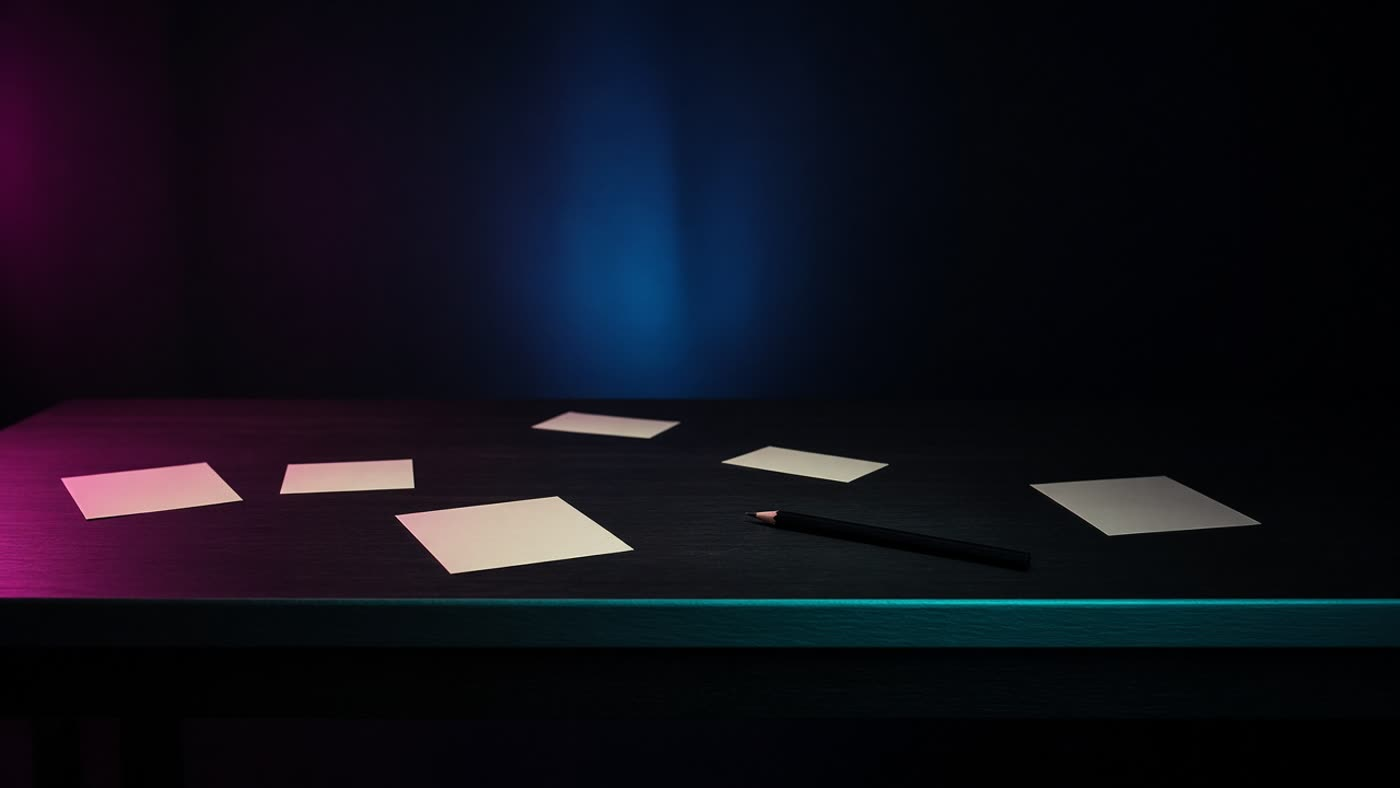
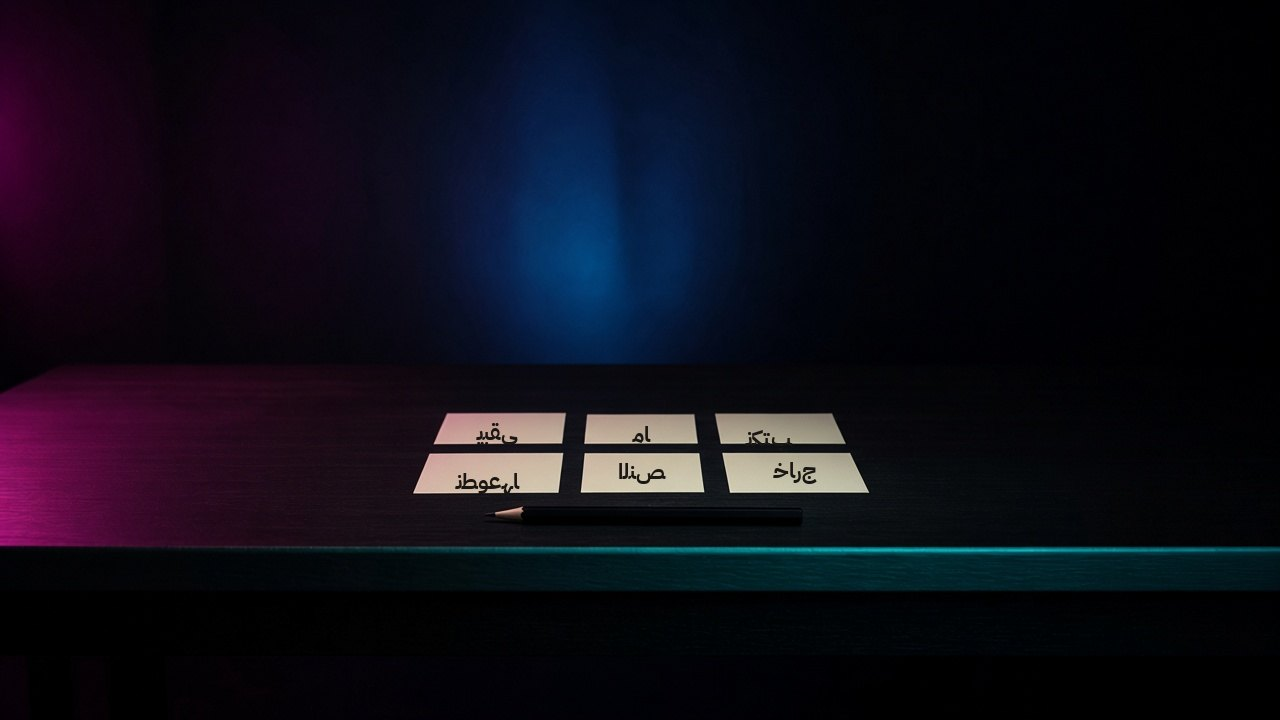
Carry one readable line through the desk sequence
The stills were swapping tools. The same words now move from slips
to a draft, into the frame, beside the microphone, through a
strike-through, and onto the card with the marked draft beside it.
Phone frames are separate 3:4 reframes so the paper is not side-cropped.

Changed region(s): [[0.0312, 0.5194, 0.6875, 0.7333], [0.7188, 0.5806, 0.9062, 0.7028]]

diff --git a/off-the-script/index.html b/off-the-script/index.html
@@ -181,40 +181,42 @@
   <div class="wrap cut-intro">
     <p class="story-kicker">03</p>
     <p class="meta">SEQUENCE</p>
-    <h2 class="ar-only">من الورق إلى ما يصلك.</h2>
-    <h2 class="en-only">From paper to what you receive.</h2>
-    <p class="lede ar-only">ثماني لقطات لطاولة واحدة. الشيء على الطاولة يتغيّر. النهاية بطاقة جاهزة وظرف مفتوح، لا شعار الاستوديو. تصور توضيحي، وليس تصوير عميل.</p>
-    <p class="lede en-only">Eight frames of one desk. The object on it changes. It ends on a finished card and an open envelope, not the studio mark. An illustration, not a client shoot.</p>
+    <h2 class="ar-only">جملة واحدة، من الورق إلى البطاقة.</h2>
+    <h2 class="en-only">One line, from paper to card.</h2>
+    <p class="lede ar-only">عينة توضيحية، ليست عمل عميل. الكلمات نفسها تنتقل: أوراق، ثم مسودة، ثم إطار، ثم صوت، ثم شطب، ثم البطاقة التي بقي عليها السطر.</p>
+    <p class="lede en-only">An illustrative sample, not a client job. The same words move: slips, then a draft, then a frame, then a mic, then a cut, then the card that keeps the line.</p>
   </div>
   <div class="seq-track wrap" id="seqTrack" data-p="0" data-seg="0" data-local="0" data-title="0">
     <div class="seq-sticky">
       <div class="seq-stage" id="seqStage">
-        <img class="seq-shot" data-i="0" alt="" width="1400" height="788" decoding="async" src="media/sequence/01.jpg">
-        <img class="seq-shot" data-i="1" alt="" width="1400" height="788" decoding="async" data-src="media/sequence/02.jpg">
-        <img class="seq-shot" data-i="2" alt="" width="1400" height="788" decoding="async" data-src="media/sequence/03.jpg">
-        <img class="seq-shot" data-i="3" alt="" width="1400" height="788" decoding="async" data-src="media/sequence/04.jpg">
-        <img class="seq-shot" data-i="4" alt="" width="1400" height="788" decoding="async" data-src="media/sequence/05.jpg">
-        <img class="seq-shot" data-i="5" alt="" width="1400" height="788" decoding="async" data-src="media/sequence/06.jpg">
-        <img class="seq-shot" data-i="6" alt="" width="1400" height="788" decoding="async" data-src="media/sequence/07.jpg">
-        <img class="seq-shot" data-i="7" alt="" width="1400" height="788" decoding="async" data-src="media/sequence/08.jpg">
+        <img class="seq-shot seq-shot--desk" data-i="0" alt="" width="1280" height="720" decoding="async" src="media/sequence/01.jpg">
+        <img class="seq-shot seq-shot--phone" data-i="0" alt="" width="900" height="1200" decoding="async" src="media/sequence/01m.jpg">
+        <img class="seq-shot seq-shot--desk" data-i="1" alt="" width="1280" height="720" decoding="async" data-src="media/sequence/02.jpg">
+        <img class="seq-shot seq-shot--phone" data-i="1" alt="" width="900" height="1200" decoding="async" data-src="media/sequence/02m.jpg">
+        <img class="seq-shot seq-shot--desk" data-i="2" alt="" width="1280" height="720" decoding="async" data-src="media/sequence/03.jpg">
+        <img class="seq-shot seq-shot--phone" data-i="2" alt="" width="900" height="1200" decoding="async" data-src="media/sequence/03m.jpg">
+        <img class="seq-shot seq-shot--desk" data-i="3" alt="" width="1280" height="720" decoding="async" data-src="media/sequence/04.jpg">
+        <img class="seq-shot seq-shot--phone" data-i="3" alt="" width="900" height="1200" decoding="async" data-src="media/sequence/04m.jpg">
+        <img class="seq-shot seq-shot--desk" data-i="4" alt="" width="1280" height="720" decoding="async" data-src="media/sequence/05.jpg">
+        <img class="seq-shot seq-shot--phone" data-i="4" alt="" width="900" height="1200" decoding="async" data-src="media/sequence/05m.jpg">
+        <img class="seq-shot seq-shot--desk" data-i="5" alt="" width="1280" height="720" decoding="async" data-src="media/sequence/06.jpg">
+        <img class="seq-shot seq-shot--phone" data-i="5" alt="" width="900" height="1200" decoding="async" data-src="media/sequence/06m.jpg">
       </div>
       <div class="seq-caption" id="seqCaption">
-        <p class="story-kicker" id="seqKicker">01 · فكرة</p>
-        <p class="lede" id="seqBody">أوراق متفرقة على الطاولة. القرار: ماذا نجمع.</p>
+        <p class="story-kicker" id="seqKicker">01 · أوراق</p>
+        <p class="lede" id="seqBody">الكلمات متفرقة على ست ورقات، ومنها «خارج النص».</p>
       </div>
     </div>
   </div>
   <div class="seq-static wrap">
-    <article><img src="media/sequence/01.jpg" alt="" width="1400" height="788" decoding="async"><div class="seq-caption"><p class="story-kicker">01 · <span class="ar-only">فكرة</span><span class="en-only">Idea</span></p><p class="lede ar-only">أوراق متفرقة على الطاولة. القرار: ماذا نجمع.</p><p class="lede en-only">Loose slips on the desk. The decision: what to gather.</p></div></article>
-    <article><img src="media/sequence/02.jpg" alt="" width="1400" height="788" decoding="async" loading="lazy"><div class="seq-caption"><p class="story-kicker">02 · <span class="ar-only">سكربت</span><span class="en-only">Script</span></p><p class="lede ar-only">صارت صفحة واحدة. النبرة قبل أي صورة.</p><p class="lede en-only">One page. Tone before any picture.</p></div></article>
-    <article><img src="media/sequence/03.jpg" alt="" width="1400" height="788" decoding="async" loading="lazy"><div class="seq-caption"><p class="story-kicker">03 · <span class="ar-only">إطار</span><span class="en-only">Frame</span></p><p class="lede ar-only">إطار حول الصفحة نفسها. ما يدخل الكادر.</p><p class="lede en-only">A frame around the same page. What enters the shot.</p></div></article>
-    <article><img src="media/sequence/04.jpg" alt="" width="1400" height="788" decoding="async" loading="lazy"><div class="seq-caption"><p class="story-kicker">04 · <span class="ar-only">صوت</span><span class="en-only">Voice</span></p><p class="lede ar-only">الميكروفون يدخل على الصفحة نفسها.</p><p class="lede en-only">The microphone arrives at the same page.</p></div></article>
-    <article><img src="media/sequence/05.jpg" alt="" width="1400" height="788" decoding="async" loading="lazy"><div class="seq-caption"><p class="story-kicker">05 · <span class="ar-only">مونتاج</span><span class="en-only">Edit</span></p><p class="lede ar-only">الصفحة بجانب الشريط. البناء يبدأ.</p><p class="lede en-only">The page sits beside the timeline.</p></div></article>
-    <article><img src="media/sequence/06.jpg" alt="" width="1400" height="788" decoding="async" loading="lazy"><div class="seq-caption"><p class="story-kicker">06 · <span class="ar-only">القطع</span><span class="en-only">Cut</span></p><p class="lede ar-only">شريط يبقى، والقصاصات تخرج.</p><p class="lede en-only">One bar stays. The scraps leave.</p></div></article>
-    <article><img src="media/sequence/07.jpg" alt="" width="1400" height="788" decoding="async" loading="lazy"><div class="seq-caption"><p class="story-kicker">07 · <span class="ar-only">ما يصلك</span><span class="en-only">What you receive</span></p><p class="lede ar-only">بطاقة جاهزة. هذا شكل المخرج، لا شعارنا.</p><p class="lede en-only">A finished card. That is the piece, not our mark.</p></div></article>
-    <article><img src="media/sequence/08.jpg" alt="" width="1400" height="788" decoding="async" loading="lazy"><div class="seq-caption"><p class="story-kicker">08 · <span class="ar-only">البداية</span><span class="en-only">Begin</span></p><p class="lede ar-only">الظرف مفتوح. اكتب موجزك وأرسله.</p><p class="lede en-only">The envelope is open. Write your brief and send it.</p></div></article>
-    <p class="seq-note ar-only">ثماني لقطات أصلية لطاولة واحدة، رُسمت لهذه الصفحة في ٨ نوفمبر ٢٠٢٦. ليست صوراً من مشروع عميل، وليست حزمة جاهزة من طرف ثالث.</p>
-    <p class="seq-note en-only">Eight original frames of one desk, made for this page on 8 Nov 2026. Not a client shoot, and not a third-party sequence pack.</p>
+    <article><picture><source media="(max-width:960px)" srcset="media/sequence/01m.jpg"><img src="media/sequence/01.jpg" alt="" width="1280" height="720" decoding="async"></picture><div class="seq-caption"><p class="story-kicker">01 · <span class="ar-only">أوراق</span><span class="en-only">Slips</span></p><p class="lede ar-only">الكلمات متفرقة، ومنها «خارج النص».</p><p class="lede en-only">The words are apart, including “off the script”.</p></div></article>
+    <article><picture><source media="(max-width:960px)" srcset="media/sequence/02m.jpg"><img src="media/sequence/02.jpg" alt="" width="1280" height="720" decoding="async" loading="lazy"></picture><div class="seq-caption"><p class="story-kicker">02 · <span class="ar-only">مسودة</span><span class="en-only">Draft</span></p><p class="lede ar-only">نفس الكلمات في ثلاثة أسطر.</p><p class="lede en-only">The same words, in three lines.</p></div></article>
+    <article><picture><source media="(max-width:960px)" srcset="media/sequence/03m.jpg"><img src="media/sequence/03.jpg" alt="" width="1280" height="720" decoding="async" loading="lazy"></picture><div class="seq-caption"><p class="story-kicker">03 · <span class="ar-only">إطار</span><span class="en-only">Frame</span></p><p class="lede ar-only">المسودة نفسها داخل الإطار.</p><p class="lede en-only">The same draft, inside the frame.</p></div></article>
+    <article><picture><source media="(max-width:960px)" srcset="media/sequence/04m.jpg"><img src="media/sequence/04.jpg" alt="" width="1280" height="720" decoding="async" loading="lazy"></picture><div class="seq-caption"><p class="story-kicker">04 · <span class="ar-only">صوت</span><span class="en-only">Voice</span></p><p class="lede ar-only">الصفحة لم تغادر، والميكروفون جاء إليها.</p><p class="lede en-only">The page stays. The microphone comes to it.</p></div></article>
+    <article><picture><source media="(max-width:960px)" srcset="media/sequence/05m.jpg"><img src="media/sequence/05.jpg" alt="" width="1280" height="720" decoding="async" loading="lazy"></picture><div class="seq-caption"><p class="story-kicker">05 · <span class="ar-only">شطب</span><span class="en-only">Cut</span></p><p class="lede ar-only">شُطب السطران الزائدان. بقي «خارج النص».</p><p class="lede en-only">The extra lines are struck. “Off the script” stays.</p></div></article>
+    <article><picture><source media="(max-width:960px)" srcset="media/sequence/06m.jpg"><img src="media/sequence/06.jpg" alt="" width="1280" height="720" decoding="async" loading="lazy"></picture><div class="seq-caption"><p class="story-kicker">06 · <span class="ar-only">البطاقة</span><span class="en-only">The card</span></p><p class="lede ar-only">البطاقة تحمل السطر الذي بقي، وبجانبها المسودة المشطوبة.</p><p class="lede en-only">The card carries the line that stayed, beside the marked draft.</p></div></article>
+    <p class="seq-note ar-only">عينة توضيحية كُتبت على الصور في ٨ نوفمبر ٢٠٢٦. ليست تصوير عميل.</p>
+    <p class="seq-note en-only">An illustrative sample, lettered onto the stills on 8 Nov 2026. Not a client shoot.</p>
   </div>
 </section>
 

diff --git a/off-the-script/story-scroll.js b/off-the-script/story-scroll.js
@@ -7,27 +7,24 @@
   const kicker = document.getElementById('seqKicker');
   const body = document.getElementById('seqBody');
   const shots = [...document.querySelectorAll('#seqStage .seq-shot')];
+  const count = new Set(shots.map((img) => img.dataset.i)).size;
   const engine = typeof window.anime === 'function' ? window.anime : null;
   const copy = {
     ar: [
-      ['01 · فكرة', 'أوراق متفرقة على الطاولة. القرار: ماذا نجمع.'],
-      ['02 · سكربت', 'صارت صفحة واحدة. النبرة قبل أي صورة.'],
-      ['03 · إطار', 'إطار حول الصفحة نفسها. ما يدخل الكادر.'],
-      ['04 · صوت', 'الميكروفون يدخل على الصفحة نفسها.'],
-      ['05 · مونتاج', 'الصفحة بجانب الشريط. البناء يبدأ.'],
-      ['06 · القطع', 'شريط يبقى، والقصاصات تخرج.'],
-      ['07 · ما يصلك', 'بطاقة جاهزة. هذا شكل المخرج، لا شعارنا.'],
-      ['08 · البداية', 'الظرف مفتوح. اكتب موجزك وأرسله.']
+      ['01 · أوراق', 'الكلمات متفرقة على ست ورقات، ومنها «خارج النص».'],
+      ['02 · مسودة', 'نفس الكلمات في ثلاثة أسطر.'],
+      ['03 · إطار', 'المسودة نفسها داخل الإطار.'],
+      ['04 · صوت', 'الصفحة لم تغادر، والميكروفون جاء إليها.'],
+      ['05 · شطب', 'شُطب السطران الزائدان. بقي «خارج النص».'],
+      ['06 · البطاقة', 'البطاقة تحمل السطر الذي بقي، وبجانبها المسودة المشطوبة.']
     ],
     en: [
-      ['01 · Idea', 'Loose slips on the desk. The decision: what to gather.'],
-      ['02 · Script', 'One page. Tone before any picture.'],
-      ['03 · Frame', 'A frame around the same page. What enters the shot.'],
-      ['04 · Voice', 'The microphone arrives at the same page.'],
-      ['05 · Edit', 'The page sits beside the timeline.'],
-      ['06 · Cut', 'One bar stays. The scraps leave.'],
-      ['07 · What you receive', 'A finished card. That is the piece, not our mark.'],
-      ['08 · Begin', 'The envelope is open. Write your brief and send it.']
+      ['01 · Slips', 'The words are apart, including “off the script”.'],
+      ['02 · Draft', 'The same words, in three lines.'],
+      ['03 · Frame', 'The same draft, inside the frame.'],
+      ['04 · Voice', 'The page stays. The microphone comes to it.'],
+      ['05 · Cut', 'The extra lines are struck. “Off the script” stays.'],
+      ['06 · The card', 'The card carries the line that stayed, beside the marked draft.']
     ]
   };
 
@@ -58,16 +55,16 @@
     const stuck = 64;
     const span = Math.max(1, rect.height - sticky.getBoundingClientRect().height);
     const p = Math.min(1, Math.max(0, (stuck - rect.top) / span));
-    const segCount = shots.length - 1;
+    const segCount = count - 1;
     const x = Math.min(0.9999, p) * segCount;
     const seg = Math.min(segCount - 1, Math.floor(x));
     const local = x - seg;
-    const show = p > 0.998 ? shots.length - 1 : (local < 0.45 ? seg : seg + 1);
-    shots.forEach((img, i) => {
+    const show = p > 0.998 ? count - 1 : (local < 0.45 ? seg : seg + 1);
+    shots.forEach((img) => {
+      const i = Number(img.dataset.i);
       if (Math.abs(i - show) <= 1) load(img);
       const on = i === show;
-      const drift = on ? 1.04 - Math.min(local, 1 - local) * 0.06 : 1;
-      engine.set(img, { opacity: on ? 1 : 0, scale: drift });
+      engine.set(img, { opacity: on ? 1 : 0, scale: 1 });
     });
     const line = copy[lang][show];
     if (kicker.textContent !== line[0]) kicker.textContent = line[0];

diff --git a/off-the-script/story.css b/off-the-script/story.css
@@ -23,9 +23,19 @@
 .seq-track{display:none;height:calc(100svh + 260vh)}
 .seq-sticky{position:sticky;top:64px;display:grid;gap:12px;align-items:end}
 .seq-stage{position:relative;overflow:hidden;height:calc(100svh - 220px);min-height:220px;width:100%;border-radius:18px;background:#070b14}
-.seq-shot{position:absolute;inset:0;width:100%;height:100%;object-fit:cover;object-position:center 62%;opacity:0}
+.seq-shot{position:absolute;inset:0;width:100%;height:100%;object-fit:cover;object-position:center 58%;opacity:0}
+.seq-shot--phone{display:none}
 .seq-shot[data-i="0"]{opacity:1}
-.seq-static img{width:100%;display:block;border-radius:16px;aspect-ratio:16/9;object-fit:cover}
+@media (max-width:960px){
+  .seq-shot--desk{display:none}
+  .seq-shot--phone{display:block}
+  .seq-stage{aspect-ratio:3/4;height:auto;min-height:0}
+  .seq-track{height:calc(100svh + 210vh)}
+}
+.seq-static img{width:100%;display:block;border-radius:16px;height:auto;object-fit:contain}
+@media (max-width:960px){
+  .seq-static img{aspect-ratio:3/4;object-fit:cover;object-position:center}
+}
 .seq-static{display:grid;gap:22px}
 .seq-static article{display:grid;gap:10px}
 .seq-note{margin:0;color:#D5DEEC;font-size:13px;line-height:1.6}

diff --git a/off-the-script/DECISIONS.md b/off-the-script/DECISIONS.md
@@ -162,3 +162,13 @@ No public review URL was created. Publishing to GitHub Pages would replace the l
 
 No team, testimonials, or client results were added. Stageshow’s React kit was not installed. This is not an independent acceptance and not a publication.
 
+## 2026-11-08 run 9 — the same words have to survive
+
+The independent review of the eight tool-swap stills was not ready. A frame, a microphone, and a blank card replaced one another. The phone crop cut the pencil and left empty sky.
+
+Qamaria v6 full-page screenshots were inspected as pictures: a wide farm hero, three close journey cards, a short menu, a person among plants, a four-image gallery, quote cards, then visit and contact. Those files are references, not a live URL, so designlang was not run on them. The person, the quotes, and the coffee were not copied. There is no real Off Script portrait or testimonial to put in their place.
+
+The sequence is now six stills of one sample. The words نكتب / ما / يبقى / خارج / النص / نطوّعها start on separate slips, meet as three lines, stay inside the frame, stay on the page when the microphone arrives, then the first and third lines are struck and «خارج النص» remains. The last still is that kept line on a card, with the struck draft beside it. Phone files are separate reframes. The sticky stage on a phone is 3:4, matching those files, and the scroll scale that was cropping the edges was removed.
+
+Chrome check after that change: zero console errors, overflow 0, one displayed frame, phone files on 360/390/430 and desk files at 1440, caption below the header, at 0 and 0.5 of each step and at the end. Tours are 62.0 seconds, 496 frames at 8 fps. Desktop ends at scroll 7926/7926. Mobile ends at 8799/8799. Both show the footer. Zero video elements in those passes. This is still an illustration, not a client piece, and not a ready claim.
+

diff --git a/off-the-script/LICENSES.md b/off-the-script/LICENSES.md
@@ -6,7 +6,7 @@
 | `assets/logo.jpg`, `mark.png`, `mark-bubble.png` | Owner brand | Owner |
 | `assets/logo-hero-ondark.png` | Derived from `logo-transparent.png`. Emblem pixels unchanged. Near-black letterforms recolored to `#F3F5FA` for dark grounds. Originals kept. | Owner |
 | Media stills | `media/stills/` and `media/posters/`. Owner / build. The nebula poster is the ground of the illustrative sequence. Studio stills beside the named programs are labeled as studio references, not frames from those programs. Not a third-party sequence pack. | Owner / build |
-| Desk sequence | `media/sequence/01.jpg`–`08.jpg`. Original stills made for this page on 2026-11-08. One desk, magenta left / blue center / teal lower. Not a client shoot, not a downloaded stock pack, not a third-party sequence. | Original, this project |
+| Desk sequence | `media/sequence/01.jpg`–`06.jpg` and `01m.jpg`–`06m.jpg`. Original stills, 2026-11-08, one desk. Arabic lines were set with IBM Plex Sans Arabic (OFL) onto those stills: the same words move from slips to a draft, into a frame, beside a microphone, through a strike-through, onto the finished card. Phone files are reframes of the same stills so the paper and pencil stay inside the frame. Not a client shoot and not a third-party pack. | Original, this project |
 | Anime.js | Package tag 3.2.2 at https://cdn.jsdelivr.net/npm/animejs@3.2.2/lib/anime.min.js (jsDelivr header `x-jsd-version: 3.2.2`, package.json version 3.2.2). The file’s own `anime.version` string is `3.2.1`. MIT, Copyright (c) 2019 Julian Garnier. https://github.com/juliangarnier/anime | MIT |
 
 Not used, and not downloaded: 3dicons Bulb (CC0 item page, not a sequence), Megaphone (license pending), Lummi (license unverified), Oversight Cyanotype (account-gated), SceneAI (premium reference only).
